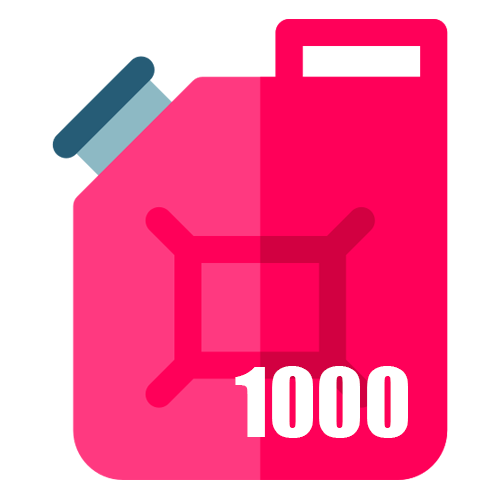
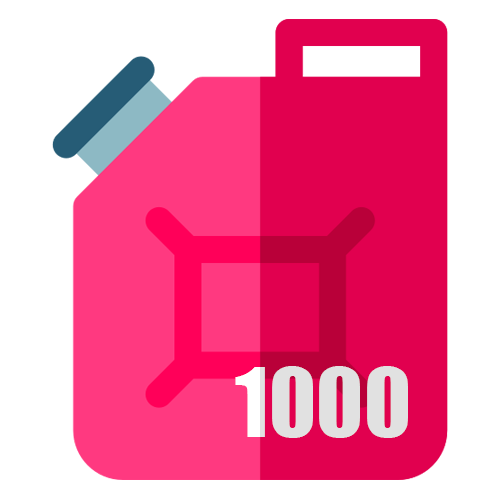
Reporte de recompensas

diff --git a/public_html/assets/js/recompensas/admin_recompensas.js b/public_html/assets/js/recompensas/admin_recompensas.js
@@ -17,4 +17,21 @@ $(document).ready(function(){
     new DataTable('.tabla_redenciones', {
         pageLength: 50
     });
+
+    $( '#descarga_premios' ).on( 'click', function(){
+        var btn = $( this );
+
+        btn.addClass( 'disabled' ).html( '<i class="fa-solid fa-circle-notch fa-spin"></i> Procesando...' );
+
+        $.ajax({
+            url: base_url + 'excel_premios',
+            data: { [csrf_token] : csrf_hash },
+            type: 'POST',
+            success: function( file ){
+                // download
+                btn.removeClass( 'disabled' ).html( '<i class="fa fa-file-excel"></i><span class="d-none d-lg-inline"> Descargar Excel</span>' );
+                window.location.href = base_url + file;
+            }
+        });  
+    });    
 });

diff --git a/app/Controllers/Recompensas.php b/app/Controllers/Recompensas.php
@@ -141,5 +141,70 @@ class Recompensas extends BaseController
             "texto" => "Esta recompensa se ha marcado como entregada" ] );   
     }
 
+
+    public function excel_premios()
+    {
+        if( !(
+            $this->data[ "usuario" ]->permiso( "27-RECOMPENSAS") ||
+            $this->data[ "usuario" ]->permiso( "40-ADMIN" )
+        ) ){
+            return redirect()->to( "inicio" ); 
+        }
+                
+        $db       = db_connect();
+        $data     = [];
+
+        $mySpreadsheet = new \PhpOffice\PhpSpreadsheet\Spreadsheet();
+        $mySpreadsheet->removeSheetByIndex(0);
+        $worksheet = new \PhpOffice\PhpSpreadsheet\Worksheet\Worksheet($mySpreadsheet, "RECOMPENSAS" );
+        $mySpreadsheet->addSheet( $worksheet, 0 );
+
+        $row = 1;
+        $d = [];
+        $e = [];
+        $worksheet->setCellValue( "A1", "SOCIO" );
+        $worksheet->setCellValue( "B1", "NOMBRE" );
+        $worksheet->setCellValue( "C1", "RECOMPENSA" );
+        $worksheet->setCellValue( "D1", "FECHA" );
+        $worksheet->setCellValue( "E1", "ESTATUS" );
+
+        $sql = "SELECT 
+                u.id AS 'SOCIO', 
+                CONCAT(u.data->>'$.nombre', ' ', u.data->>'$.apellidos[0]', ' ', u.data->>'$.apellidos[1]') AS 'NOMBRE', 
+                p.nombre AS 'RECOMPENSA',
+                r.fecha AS 'FECHA',
+                r.estatus_codigo AS 'ESTATUS'
+                from t_redenciones r
+                JOIN t_usuarios u ON u.id = r.usuario_id
+                JOIN t_recompensas p ON p.codigo = r.recompensa_codigo
+                where SUBSTRING( r.estatus_codigo, 1, 3) > 300
+                ORDER BY fecha asc";
+
+        $result = $db->query( $sql );
+
+        foreach( $result->getResult() as $s ){
+            $row++;
+            $worksheet->setCellValue( "A".( $row ),  $s->SOCIO);
+            $worksheet->setCellValue( "B".( $row ),  $s->NOMBRE);
+            $worksheet->setCellValue( "C".( $row ),  $s->RECOMPENSA);
+            $worksheet->setCellValue( "D".( $row ),  $s->FECHA);
+            $worksheet->setCellValue( "E".( $row ),  ESTATUS[ $s->ESTATUS ][ "descripcion" ] );
+        }
+
+        $worksheet->getStyle( "A1:E1" )->getFont()->getColor()->setARGB('ffffff');
+        $worksheet->getStyle( "A1:E1" )->getFill()->setFillType(\PhpOffice\PhpSpreadsheet\Style\Fill::FILL_SOLID)->getStartColor()->setARGB('192b5a');
+
+        foreach( $worksheet->getColumnIterator() as $column ){
+            $worksheet->getColumnDimension( $column->getColumnIndex() )->setAutoSize( true );
+        }
+
+        $path = "data/excel/recompensas";
+        if( !is_dir( $path ) ) mkdir( $path, 0755, true );
+
+        echo $file = $path."/Recompensas_".date( "Y-m-d" )."_".time().".xlsx";
+
+        $writer = new \PhpOffice\PhpSpreadsheet\Writer\Xlsx($mySpreadsheet);
+        $writer->save( $file );
+    }      
 }
 

diff --git a/app/Views/recompensas/admin_recompensas.php b/app/Views/recompensas/admin_recompensas.php
@@ -3,8 +3,15 @@
 <script src="<?php echo base_url(); ?>assets/js/datatables.js" type="text/javascript"></script>
 <script src="<?php echo base_url(); ?>assets/js/datatables_bs5.js" type="text/javascript"></script>
 
-<h4 class="mt-1 mb-0"><?php echo $titulo; ?></h4>
-<p><a href="<?php echo base_url( "admin" ); ?>"><i class="fa fa-undo"></i> Regresar a configuración</a></p>
+<div class="row">
+    <div class="col-8">
+        <h4 class="mt-1 mb-0"><?php echo $titulo; ?></h4>
+        <p><a href="<?php echo base_url( "admin" ); ?>"><i class="fa fa-undo"></i> Regresar a configuración</a></p>
+    </div>
+    <div class="col-4 text-end pt-3">
+        <button class="btn btn-success" id="descarga_premios"><i class="fa fa-file-excel"></i><span class="d-none d-lg-inline"> Descargar Excel</span></button>
+    </div>
+</div>
 
 <?php
 $ciclos = [];

diff --git a/app/Config/Routes.php b/app/Config/Routes.php
@@ -112,6 +112,8 @@ $routes->group( "/",  [ "filter" => "auth" ], static function ( $routes ) {
     $routes->get( "reclama_recompensa/(:any)", "Recompensas::reclama_recompensa/$1" );     
     $routes->post( "guarda_recompensas",    "Recompensas::guarda_recompensas" );     
     $routes->post( "entregar_recompensa",   "Recompensas::entregar_recompensa" );     
+    $routes->post( "excel_premios",         "Recompensas::excel_premios" ); 
+
 
     $routes->get( "red",                    "Redes::downline" ); 
     $routes->get( "red/(:any)",             "Redes::downline/$1" ); 

diff --git a/app/Controllers/Reportes.php b/app/Controllers/Reportes.php
@@ -140,7 +140,7 @@ class Reportes extends BaseController
         $path = "data/excel/socios_por_estatus";
         if( !is_dir( $path ) ) mkdir( $path, 0755, true );
 
-        echo $file = $path."/SociosPorEstatus_".substr( $modelo, 3 )."_".date( "Y-m-d" ).".xlsx";
+        echo $file = $path."/SociosPorEstatus_".substr( $modelo, 3 )."_".date( "Y-m-d" )."_".time().".xlsx";
 
         $writer = new \PhpOffice\PhpSpreadsheet\Writer\Xlsx($mySpreadsheet);
         $writer->save( $file );